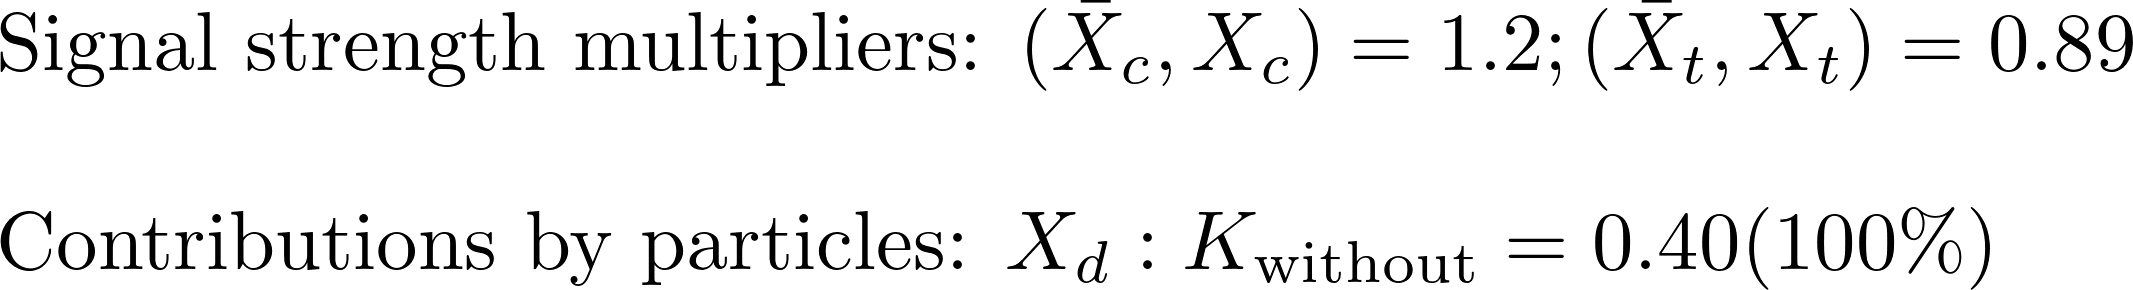
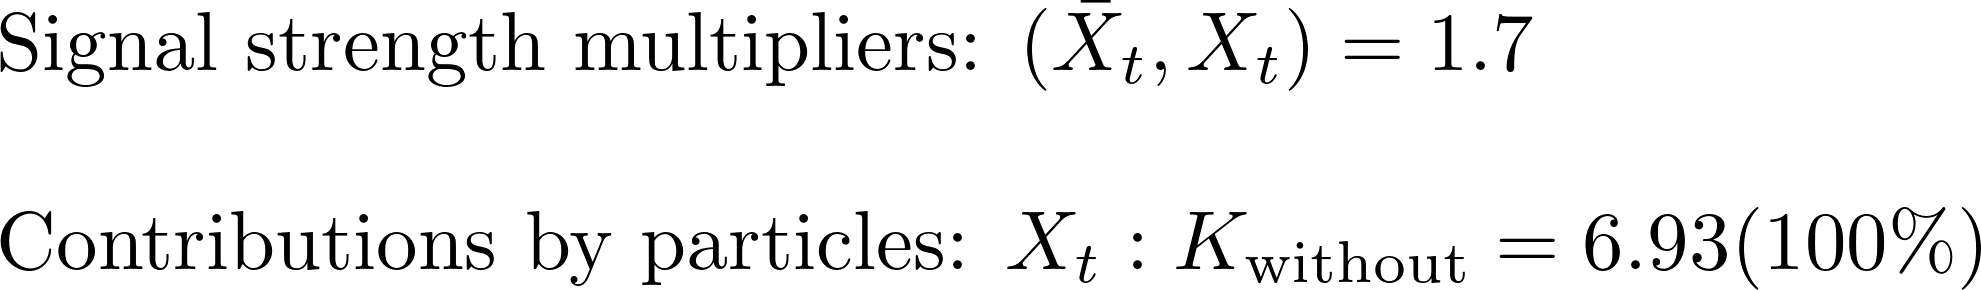
automated update by plotHiscore.py

Changed region(s): [[0.0, 0.7138, 1.0, 1.0], [0.0, 0.0, 0.8622, 0.3103], [0.893, 0.031, 1.0, 0.2483]]

diff --git a/protomodels/latest/index.html b/protomodels/latest/index.html
@@ -1,27 +1,27 @@
 <html>
 <body>
 <center>
-<table><td><h1>Current best protomodel: K=5.04</h1><td><img height=60px src=https://smodels.github.io/pics/banner.png></table>
+<table><td><h1>Current best protomodel: K=6.93</h1><td><img height=60px src=https://smodels.github.io/pics/banner.png></table>
 </center>
-<b><a href=./hiscore.slha>ProtoModel</a> <a href=./pmodel.py>(dict)</a> produced with <a href=https://smodels.github.io/docs/Validation124fake37>database v1.2.4fake37</a>, combination strategy <a href=./matrix_aggressive.png>aggressive</a> in walker 37 step 21.</b> K plots for: <a href=./M1000022.png?6672569>X<sub>Z</sub><sup>1</sup></a>, <a href=./M1000001.png?6672569>X<sub>d</sub></a>. HPD plots for: <a href=./llhd1000001.png?6672569>X<sub>d</sub></a>. SSM plots for: <a href=./ssm_-1000006_1000006.png?6672569>(x&#772;<sub>t</sub>,X<sub>t</sub>)</a><br>
+<b><a href=./hiscore.slha>ProtoModel</a> <a href=./pmodel.py>(dict)</a> produced with <a href=https://smodels.github.io/docs/Validation124signal5>database v1.2.4signal5</a>, combination strategy <a href=./matrix_aggressive.png>aggressive</a> in walker 24 step 68.</b> K plots for: <a href=./M1000022.png?6672749>X<sub>Z</sub><sup>1</sup></a>, <a href=./M1000006.png?6672749>X<sub>t</sub></a>. HPD plots for: <a href=./llhd1000006.png?6672749>X<sub>t</sub></a>. SSM plots for: <a href=./ssm_-1000006_1000006.png?6672749>(x&#772;<sub>t</sub>,X<sub>t</sub>)</a><br>
 <table width=80%>
 <tr><td>
-<br><b>32 predictions available. Highest r values are:</b><br><ul>
-<li><a href=http://cms-results.web.cern.ch/cms-results/public-results/publications/SUS-19-006/index.html>CMS-SUS-19-006</a>:T2tt r=1.30, r<sub>exp</sub>=1.32<br>
-<li><a href=http://cms-results.web.cern.ch/cms-results/public-results/publications/SUS-16-050/index.html>CMS-SUS-16-050</a>:T2tt r=1.25, r<sub>exp</sub>=0.98<br>
-<li><a href=http://cms-results.web.cern.ch/cms-results/public-results/publications/SUS-16-033/index.html>CMS-SUS-16-033</a>:T2tt r=0.86, r<sub>exp</sub>=0.76<br>
-<li><a href=http://cms-results.web.cern.ch/cms-results/public-results/publications/SUS-16-049/index.html>CMS-SUS-16-049</a>:T2tt r=0.81, r<sub>exp</sub>=1.21<br>
-<li><a href=https://atlas.web.cern.ch/Atlas/GROUPS/PHYSICS/PAPERS/SUSY-2016-15/>ATLAS-SUSY-2016-15</a>:T2tt r=0.73, r<sub>exp</sub>=N/A<br>
+<br><b>12 predictions available. Highest r values are:</b><br><ul>
+<li><a href=http://cms-results.web.cern.ch/cms-results/public-results/publications/SUS-16-049/index.html>CMS-SUS-16-049</a>:T2tt r=1.30, r<sub>exp</sub>=1.11<br>
+<li><a href=http://cms-results.web.cern.ch/cms-results/public-results/publications/SUS-16-036/index.html>CMS-SUS-16-036</a>:T2tt r=0.92, r<sub>exp</sub>=0.66<br>
+<li><a href=http://cms-results.web.cern.ch/cms-results/public-results/publications/SUS-16-050/index.html>CMS-SUS-16-050</a>:T2tt r=0.82, r<sub>exp</sub>=1.05<br>
+<li><a href=http://cms-results.web.cern.ch/cms-results/public-results/publications/SUS-19-006/index.html>CMS-SUS-19-006</a>:T2tt r=0.63, r<sub>exp</sub>=1.11<br>
+<li><a href=http://cms-results.web.cern.ch/cms-results/public-results/publications/SUS-16-051/index.html>CMS-SUS-16-051</a>:T2tt r=0.63, r<sub>exp</sub>=0.64<br>
 </ul>
 <td><br><b>K values without analyses: (contribution)</b><br>
 <ul>
-<li> <a href=https://atlas.web.cern.ch/Atlas/GROUPS/PHYSICS/PAPERS/SUSY-2016-07/>ATLAS-SUSY-2016-07</a>: 0.06 (42%)
-<li> <a href=http://cms-results.web.cern.ch/cms-results/public-results/publications/SUS-19-006/index.html>CMS-SUS-19-006</a>: -1.87 (58%)
-<td><img width=600px src=./texdoc.png?1599672569>
-<br><font size=-1>Last updated: Wed Sep  9 19:29:29 2020</font>
+<li> <a href=http://cms-results.web.cern.ch/cms-results/public-results/publications/SUS-19-006/index.html>CMS-SUS-19-006</a>: 4.54 (29%)
+<li> <a href=https://atlas.web.cern.ch/Atlas/GROUPS/PHYSICS/PAPERS/SUSY-2016-16/>ATLAS-SUSY-2016-16</a>: 0.94 (71%)
+<td><img width=600px src=./texdoc.png?1599672749>
+<br><font size=-1>Last updated: Wed Sep  9 19:32:29 2020</font>
 </table><table style="width:80%">
-<td width=45%><img height=580px src=./ruler.png?1599672569><td width=55%><img height=380px src=./decays.png?1599672569>
-<font size=-3><iframe type="text/html" height="220px" width="100%s" frameborder="0" src="./rawnumbers.html?1599672569"></iframe></font>
+<td width=45%><img height=580px src=./ruler.png?1599672749><td width=55%><img height=380px src=./decays.png?1599672749>
+<font size=-3><iframe type="text/html" height="220px" width="100%s" frameborder="0" src="./rawnumbers.html?1599672749"></iframe></font>
 </table>
 </body>
 </html>

diff --git a/protomodels/latest/rawnumbers.html b/protomodels/latest/rawnumbers.html
@@ -1,10 +1,6 @@
 <table>
-<tr><th>Analysis Name</th><th>Type</th><th>Dataset</th><th>Observed</th><th>Expected</th><th>Approx &sigma;</th><th>Particles</th>
+<tr><th>Analysis Name</th><th>Type</th><th>Dataset</th><th>Observed</th><th>Expected</th><th>Approx &sigma;</th><th>Particles</th><th>Signal</th>
 </tr>
-<tr><td><a href=https://atlas.web.cern.ch/Atlas/GROUPS/PHYSICS/PAPERS/SUSY-2013-04/>ATLAS-SUSY-2013-04</a></td><td>em</td> <td>GtGrid_SR_8ij80 ...</td><td>1</td><td>0.9 +/- 0.6</td><td style="text-align:right">0.1 &sigma;</td><td style="text-align:right">X<sub>t</sub></td></tr>
-<tr><td><a href=http://atlas.web.cern.ch/Atlas/GROUPS/PHYSICS/PAPERS/SUSY-2015-02/>ATLAS-SUSY-2015-02</a></td><td>em</td> <td>SR1</td><td>8</td><td>5.5 +/- 0.72</td><td style="text-align:right">1.0 &sigma;</td><td style="text-align:right">X<sub>t</sub></td></tr>
-<tr><td><a href=https://atlas.web.cern.ch/Atlas/GROUPS/PHYSICS/PAPERS/SUSY-2016-07/>ATLAS-SUSY-2016-07</a></td><td>em</td> <td>2j_Meff_1200</td><td>563</td><td>526 +/- 31</td><td style="text-align:right">1.0 &sigma;</td><td style="text-align:right">X<sub>c</sub></td></tr>
-<tr><td><a href=https://twiki.cern.ch/twiki/bin/view/CMSPublic/PhysicsResultsSUS12028>CMS-SUS-12-028</a></td><td>ul</td> <td>-</td><td> 8.8 fb </td><td> 8.8 fb</td><td style="text-align:right">-0.0 &sigma;</td><td style="text-align:right">X<sub>c</sub></td></tr>
-<tr><td><a href=http://cms-results.web.cern.ch/cms-results/public-results/publications/SUS-16-051/index.html>CMS-SUS-16-051</a></td><td>ul</td> <td>-</td><td> 75.4 fb </td><td> 38.2 fb</td><td style="text-align:right">1.9 &sigma;</td><td style="text-align:right">X<sub>t</sub></td></tr>
-<tr><td><a href=http://cms-results.web.cern.ch/cms-results/public-results/publications/SUS-19-006/index.html>CMS-SUS-19-006</a></td><td>ul</td> <td>-</td><td> 9.8 fb </td><td> 5.7 fb</td><td style="text-align:right">1.4 &sigma;</td><td style="text-align:right">X<sub>c</sub></td></tr>
+<tr><td><a href=https://atlas.web.cern.ch/Atlas/GROUPS/PHYSICS/PAPERS/SUSY-2016-16/>ATLAS-SUSY-2016-16</a></td><td>em</td> <td>tN_high</td><td>11</td><td>3.8 +/- 1</td><td style="text-align:right">3.3 &sigma;</td><td style="text-align:right">X<sub>t</sub></td><td style="text-align:right">-</td></tr>
+<tr><td><a href=http://cms-results.web.cern.ch/cms-results/public-results/publications/SUS-19-006/index.html>CMS-SUS-19-006</a></td><td>ul</td> <td>-</td><td> 6.2 fb </td><td> 3.5 fb</td><td style="text-align:right">1.5 &sigma;</td><td style="text-align:right">X<sub>t</sub></td><td style="text-align:right">28.69 fb</td></tr>
 </table>

diff --git a/protomodels/latest/pmodel.py b/protomodels/latest/pmodel.py
@@ -1,1 +1,1 @@
-{'masses': {1000022: 409.855, 1000004: 1141.375, 1000006: 753.841}, 'ssmultipliers': {(1000022, 1000022): 26.22, (1000004, 1000004): 1.192, (-1000004, 1000004): 1.192, (-1000004, -1000004): 1.192, (1000004, 1000022): 1.192, (-1000004, 1000022): 1.192, (1000006, 1000006): 0.886, (-1000006, 1000006): 0.886, (-1000006, -1000006): 0.886, (1000006, 1000022): 0.886, (-1000006, 1000022): 0.886, (1000004, 1000006): 0.886, (-1000006, 1000004): 0.886, (-1000004, 1000006): 0.886, (-1000006, -1000004): 0.886}, 'decays': {1000022: {}, 1000004: {1000022: 1.0}, 1000006: {1000022: 1.0}}, 'timestamp': 'Wed Sep  9 19:29:00 2020', 'Z': 2.931, 'K': 5.038, 'step': 21, 'codever': '1.0', 'dbver': '1.2.4fake37'}
+{'masses': {1000022: 460.02, 1000006: 1145.646}, 'ssmultipliers': {(1000022, 1000022): 0.0, (1000006, 1000006): 0.983, (-1000006, 1000006): 1.664, (-1000006, -1000006): 1.664, (1000006, 1000022): 1.664, (-1000006, 1000022): 1.664}, 'decays': {1000022: {}, 1000006: {1000022: 1.0}}, 'timestamp': 'Wed Sep  9 19:31:53 2020', 'Z': 3.03, 'K': 6.93, 'step': 68, 'codever': '1.0', 'dbver': '1.2.4signal5'}
